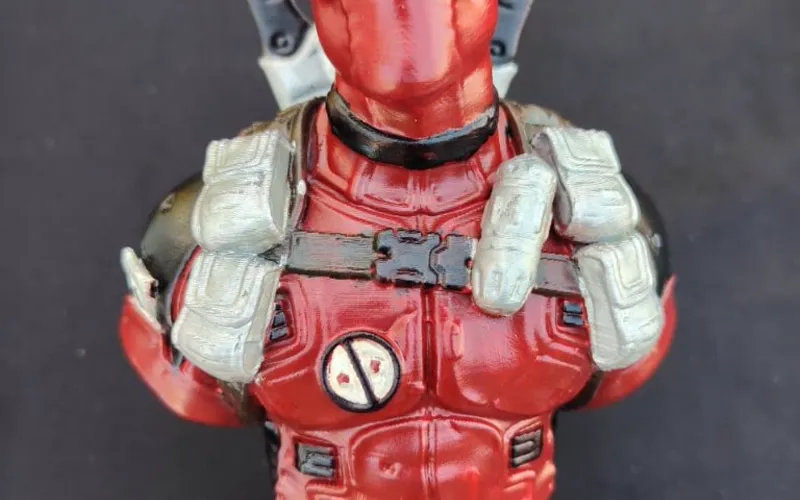
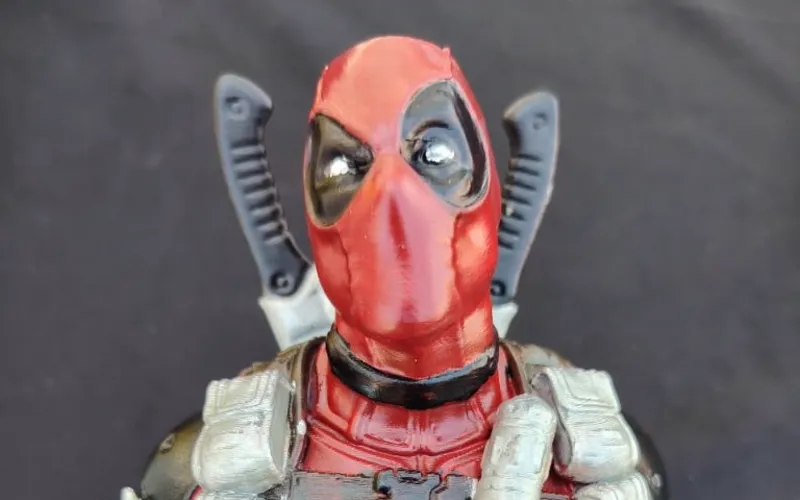
Recenter hero crops so Deadpool face stays in frame.
Bias the three hero WebP crops upward and set object-position so portrait sources no longer show torso-first.

diff --git a/styles.css b/styles.css
@@ -584,6 +584,11 @@ h3 {
   object-fit: cover;
 }
 
+/* Encuadre hacia cara / diseño, no pecho / base */
+.plate--1 .plate__media img { object-position: center 12%; }
+.plate--2 .plate__media img { object-position: center 28%; }
+.plate--3 .plate__media img { object-position: center 22%; }
+
 .plate__meta {
   position: absolute;
   z-index: 2;
